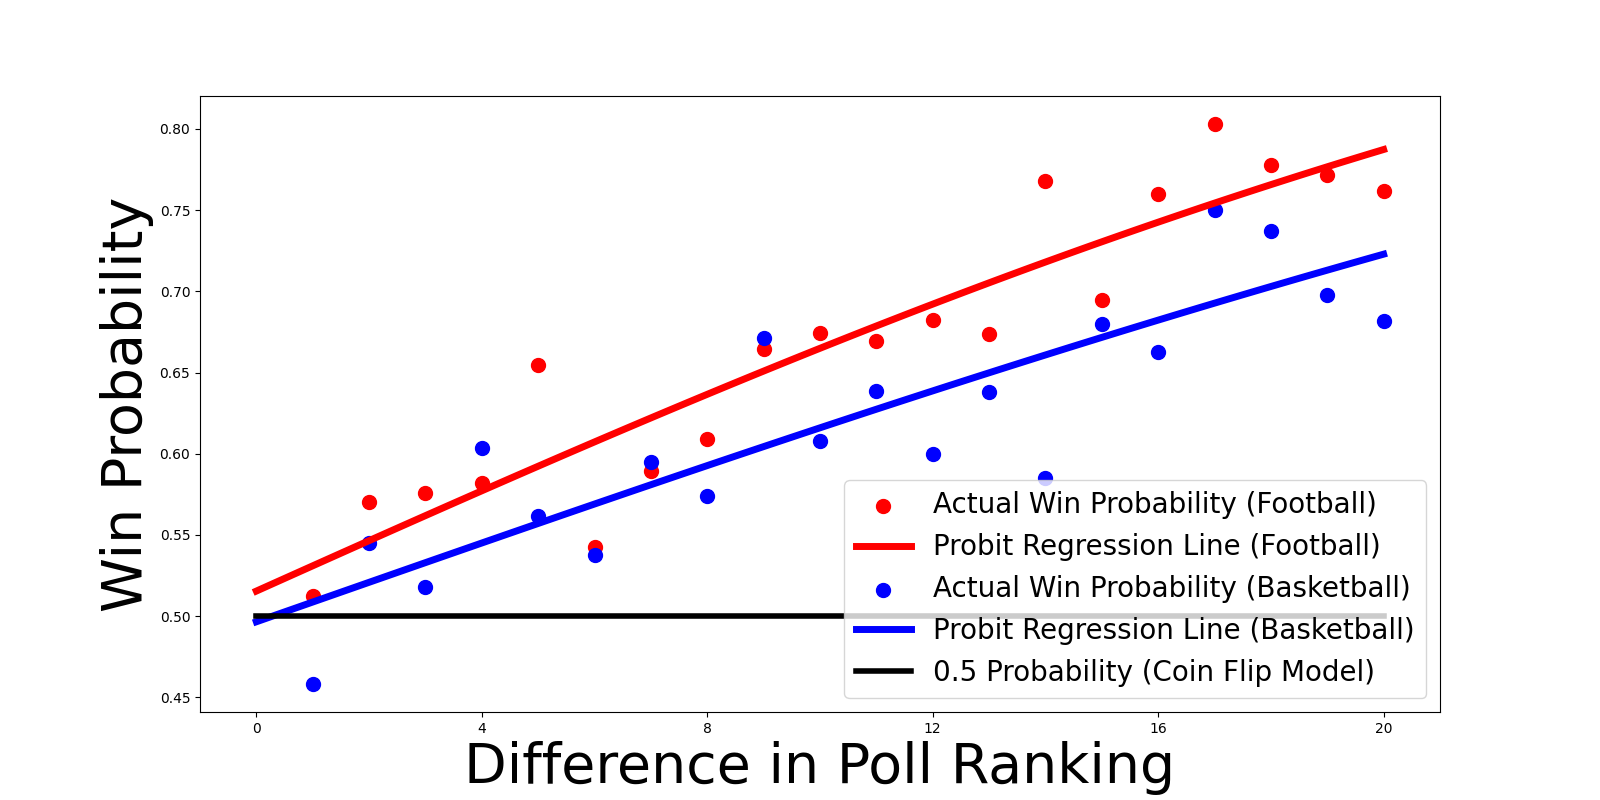
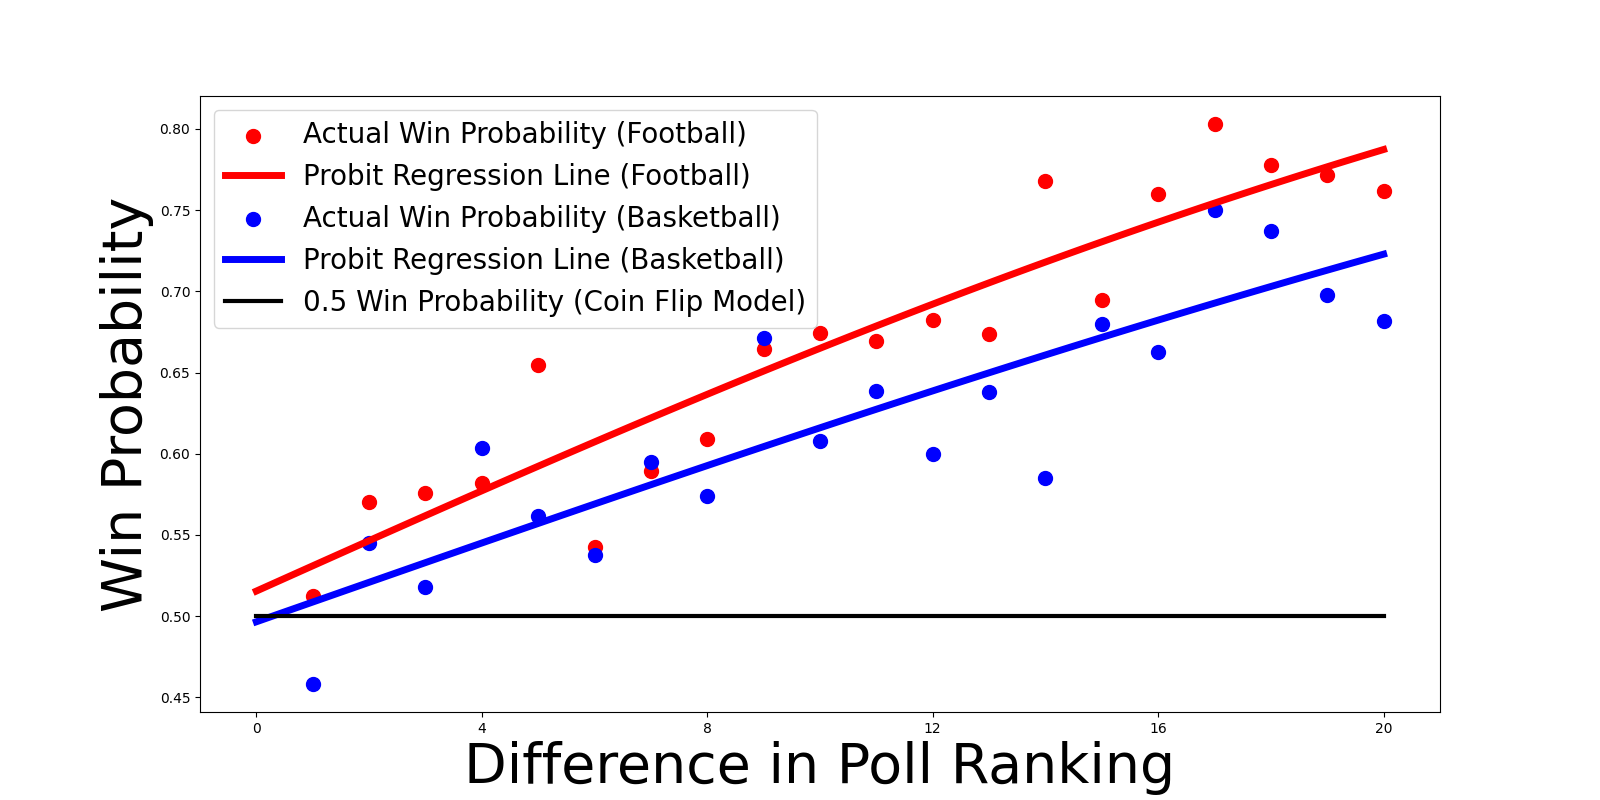
added 0.5 win prob line to poll prediction graph

Changed region(s): [[0.5, 0.5938, 0.875, 0.875], [0.125, 0.1562, 0.5, 0.2812], [0.125, 0.3125, 0.5, 0.4062]]

diff --git a/sports-reference/combine_graphs.py b/sports-reference/combine_graphs.py
@@ -26,10 +26,10 @@ plt.scatter(cfb["rankdiff"].to_list(),cfb["act"].to_list(),color="red",label="Ac
 plt.plot(x,y_cfb,color="red",label="Probit Regression Line (Football)", linewidth=5)
 plt.scatter(cbb["rankdiff"].to_list(),cbb["act"].to_list(),color="blue",label="Actual Win Probability (Basketball)",s=100)
 plt.plot(x,y_cbb,color="blue",label="Probit Regression Line (Basketball)", linewidth=5)
-plt.plot(x,y_coinflip,color="black",label="0.5 Probability (Coin Flip Model)",linewidth=4)
+plt.plot(x,y_coinflip,color="black",label="0.5 Win Probability (Coin Flip Model)",linewidth=3)
 plt.xlabel("Difference in Poll Ranking", fontsize=40)
 plt.ylabel("Win Probability", fontsize=40)
 plt.xticks([0,4,8,12,16,20])
-plt.legend(fontsize=20, loc='lower right')
+plt.legend(fontsize=20, loc='upper left')
 plt.savefig("sports-reference/combinedGraph.png")
 plt.show()
